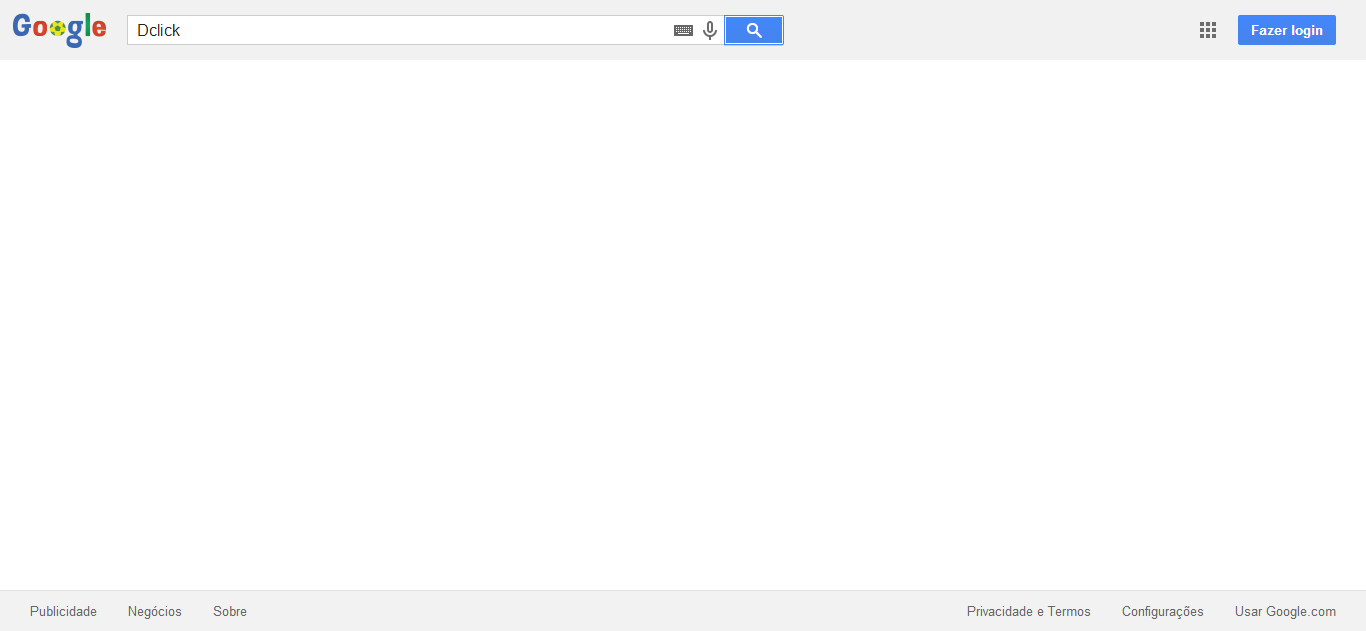
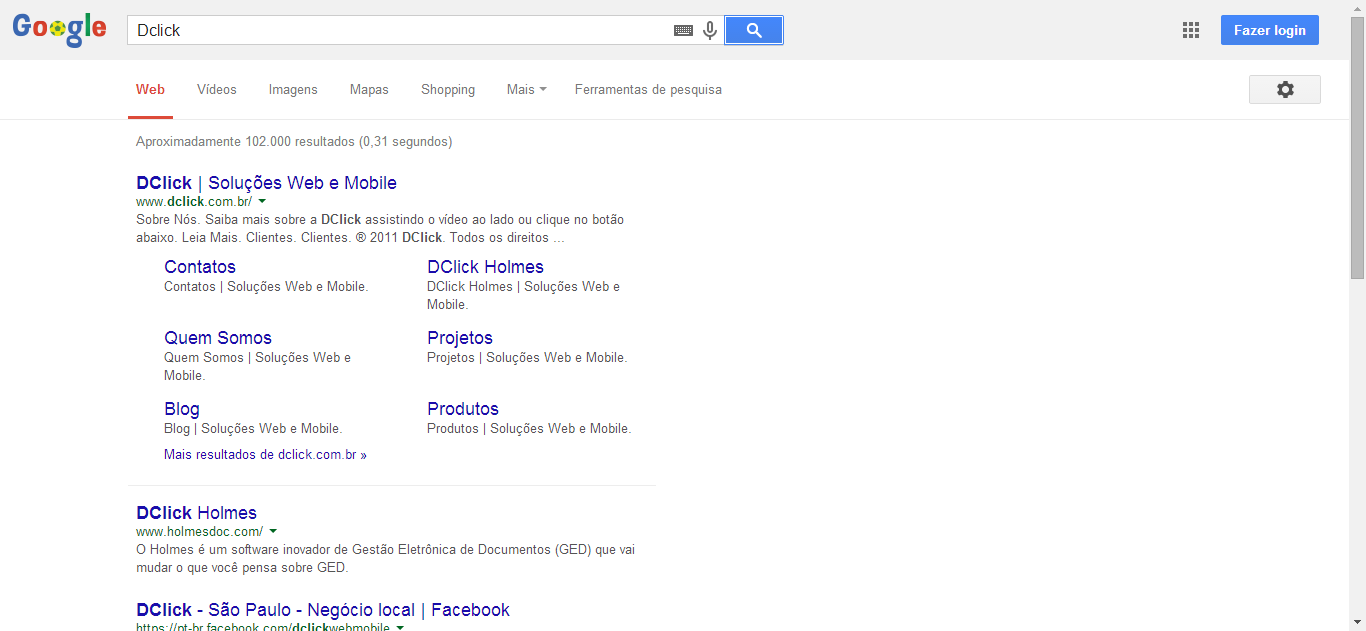
manutenção no Readme

diff --git a/src/main/java/br/com/google/ScreenshotTestRule.java b/src/main/java/br/com/google/ScreenshotTestRule.java
@@ -44,10 +44,10 @@ public class ScreenshotTestRule extends TestWatcher{
     }
 
 	private File getDestinationFile(Description description) {
-    	new File("target/surefire-reports/").mkdirs();
-    	String directory = "target/surefire-reports/";
+    	new File("target/screenshots/").mkdirs();
+    	String directory = "target/screenshot/";
         String fileName = description.getMethodName();
-        String absoluteFileName = directory + "/screenshot-" + fileName +".png";
+        String absoluteFileName = directory + description.getDisplayName() + fileName +".png";
 
         return new File(absoluteFileName);
     }

diff --git a/src/test/java/br/com/google/GoogleTest.java b/src/test/java/br/com/google/GoogleTest.java
@@ -43,7 +43,7 @@ public class GoogleTest {
 		google.visita();
 		google.busca("Dclick");
 		
-		assertTrue(google.existe("xxx"));
+		assertTrue(google.existe("Dclick"));
 		
 	}
 	@After

diff --git a/README.md b/README.md
@@ -1,3 +1,22 @@
 Selenium + Spring
 ================
 
+Diversos testes  com drivers diferentes.
+
+ChromeDriver:
+Onde o diver esta em /selenium-spring/src/test/resources/chromedriver.exe
+
+e o Bean do driver é: /selenium-spring/src/test/resources/chrome-driver.xml
+
+InternetExplorerDriver:
+Onde o diver esta em /selenium-spring/src/test/resources/IEDriverServer.exe
+
+e o Bean do driver é: /selenium-spring/src/test/resources/internet-explorer-driver.xml
+
+HtmlUnitDriver:
+O Bean do driver está: /selenium-spring/src/test/resources/html-unit-driver.xml
+
+Este driver é uma implementação do WebDriver baseada no HtmlUnit com pouquissimos recursos. Pode ser usada em testes simples. 
+https://code.google.com/p/selenium/wiki/HtmlUnitDriver
+https://code.google.com/p/selenium/wiki/HtmlUnit
+
